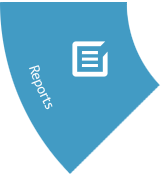
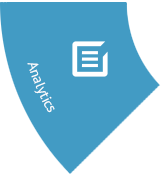
Changed Reports to Analytics. In installation process fixed the code for yahoo mail server settings.

Changed region(s): [[0.1553, 0.3448, 0.3416, 0.6609], [0.528, 0.2874, 0.5901, 0.3161]]

diff --git a/public/media/css/jquery.alert.css b/public/media/css/jquery.alert.css
@@ -83,15 +83,15 @@ box-shadow:         0px 3px 3px rgba(0, 0, 0, 0.75);
 }
 
 #popup_content.alert {
-	background-image: url(images/info.gif);
+	/*background-image: url(images/info.gif);*/
 }
 
 #popup_content.confirm {
-	background-image: url(images/important.gif);
+	/*background-image: url(images/important.gif);*/
 }
 
 #popup_content.prompt {
-	background-image: url(images/help.gif);
+	/*background-image: url(images/help.gif);*/
 }
 
 #popup_message {

diff --git a/application/modules/default/controllers/EmpcommunicationdetailsController.php b/application/modules/default/controllers/EmpcommunicationdetailsController.php
@@ -88,86 +88,59 @@ class Default_EmpcommunicationdetailsController extends Zend_Controller_Action
 							if(!empty($empdata))
 							{
 								$empDept = $empdata[0]['department_id'];
-
-								/*	//TO get the Employee  profile information....
-								 $usersModel = new Default_Model_Users();
-								 $employeeData = $usersModel->getUserDetailsByIDandFlag($id);
-								 //echo "Employee Data : <pre>";print_r($employeeData);die;
-								 */
-
 								$empcommdetailsModal = new Default_Model_Empcommunicationdetails();
 								$usersModel = new Default_Model_Users();
 								$countriesModel = new Default_Model_Countries();
 								$statesmodel = new Default_Model_States();
 								$citiesmodel = new Default_Model_Cities();
 								$deptModel = new Default_Model_Departments();
+								$orgInfoModel = new Default_Model_Organisationinfo();
+								$orgid = 1;
+								$countryId = '';
+								$stateId = '';
+								$cityId = '';
 
-								$empDeptdata = $deptModel->getEmpdepartmentdetails($empDept);
-								if(!empty($empDeptdata) && isset($empDeptdata))
+								if($empDept !='' && $empDept !='NULL')
 								{
-									$countryId = $empDeptdata[0]['country'];
-									$stateId = $empDeptdata[0]['state'];
-									$cityId = $empDeptdata[0]['city'];
-
-									$countryData = $countriesModel->getActiveCountryName($countryId);
+									$empDeptdata = $deptModel->getEmpdepartmentdetails($empDept);
+									if(!empty($empDeptdata))
+									{
+										$countryId = $empDeptdata[0]['country'];
+										$stateId = $empDeptdata[0]['state'];
+										$cityId = $empDeptdata[0]['city'];
+									}
+								}	
+								else
+								{
+									$empDeptdata = $orgInfoModel->getOrganisationDetails($orgid);
+									if(!empty($empDeptdata))
+									{
+										$countryId = $empDeptdata[0]['country'];
+										$stateId = $empDeptdata[0]['state'];
+										$cityId = $empDeptdata[0]['city'];
+									}
+								}
+									if($countryId !='')
+										$countryData = $countriesModel->getActiveCountryName($countryId);
 									if(!empty($countryData))
 									$empDeptdata[0]['country'] = $countryData[0]['country'];
 									else
 									$empDeptdata[0]['country'] ='';
 
-									$stateData = $statesmodel->getStateNameData($stateId);
+									if($stateId !='')
+										$stateData = $statesmodel->getStateNameData($stateId);
 									if(!empty($stateData))
 									$empDeptdata[0]['state'] = $stateData[0]['state'];
 									else
 									$empDeptdata[0]['state'] ='';
 
-									$citiesData = $citiesmodel->getCitiesNameData($cityId);
+									if($cityId !='')
+										$citiesData = $citiesmodel->getCitiesNameData($cityId);
 									if(!empty($citiesData))
 									$empDeptdata[0]['city'] = $citiesData[0]['city'];
 									else
 									$empDeptdata[0]['city'] ='';
 
-								}
-								else
-								{
-									$countryId ='';$stateId = '';$cityId ='';
-								}
-
-								/*if($countryId !='')
-								 {
-								 $countryData = $countriesModel->getActiveCountryName($countryId);
-								 $empDeptdata[0]['country'] = $countryData[0]['country'];
-								 }
-
-								 if($stateId !='')
-								 {
-								 $stateData = $statesmodel->getStateNameData($stateId);
-								 //echo "<pre>";print_r($stateData);exit;
-								 $empDeptdata[0]['state'] = $stateData[0]['state'];
-								 }
-
-								 if($cityId !='')
-								 {
-								 $citiesData = $citiesmodel->getCitiesNameData($cityId);
-								 $empDeptdata[0]['city'] = $citiesData[0]['city'];
-								 } */
-
-								/*$countrieslistArr = $countriesModel->getActiveCountriesList();
-								 if(sizeof($countrieslistArr)>0)
-								 {
-								 $empcommdetailsform->perm_country->addMultiOption('','Select Country');
-								 $empcommdetailsform->current_country->addMultiOption('','Select Country');
-								 foreach ($countrieslistArr as $countrieslistres)
-								 {
-								 $empcommdetailsform->perm_country->addMultiOption($countrieslistres['country_id_org'],$countrieslistres['country']);
-								 $empcommdetailsform->current_country->addMultiOption($countrieslistres['country_id_org'],$countrieslistres['country']);
-								 }
-								 }
-								 else
-								 {
-								 $msgarray['perm_country'] = 'Countries are not configured yet.';
-								 $msgarray['current_country'] = 'Countries are not configured yet.';
-								 }*/
 								$data = $empcommdetailsModal->getsingleEmpCommDetailsData($id);
 
 								if(!empty($data))
@@ -529,39 +502,55 @@ class Default_EmpcommunicationdetailsController extends Zend_Controller_Action
                                 $citiesmodel = new Default_Model_Cities();
                                 $orgInfoModel = new Default_Model_Organisationinfo();
                                 $msgarray = array();
+								$orgid = 1;
+								$countryId = '';
+								$stateId = '';
+								$cityId = '';
 								
                                 $deptModel = new Default_Model_Departments();
-                                $empDeptdata = $deptModel->getEmpdepartmentdetails($empDept);
-				
-                                if(!empty($empDeptdata) && isset($empDeptdata))
-                                {
-                                    $countryId = $empDeptdata[0]['country'];
-                                    $stateId = $empDeptdata[0]['state'];
-                                    $cityId = $empDeptdata[0]['city'];
-
-                                    $countryData = $countriesModel->getActiveCountryName($countryId);
+								if($empDept !='' && $empDept !='NULL')
+								{
+									$empDeptdata = $deptModel->getEmpdepartmentdetails($empDept);
+									if(!empty($empDeptdata))
+									{
+										$countryId = $empDeptdata[0]['country'];
+										$stateId = $empDeptdata[0]['state'];
+										$cityId = $empDeptdata[0]['city'];
+									}
+								}	
+								else
+								{
+									$empDeptdata = $orgInfoModel->getOrganisationDetails($orgid);
+									if(!empty($empDeptdata))
+									{
+										$countryId = $empDeptdata[0]['country'];
+										$stateId = $empDeptdata[0]['state'];
+										$cityId = $empDeptdata[0]['city'];
+									}
+								}	
+								//echo "<pre>";print_r($empDeptdata);exit;
+									if($countryId !='')
+										$countryData = $countriesModel->getActiveCountryName($countryId);
                                     if(!empty($countryData))
                                         $empDeptdata[0]['country'] = $countryData[0]['country'];
                                     else
                                         $empDeptdata[0]['country'] ='';
-
-                                    $stateData = $statesmodel->getStateNameData($stateId);
+									
+									if($stateId !='')
+										$stateData = $statesmodel->getStateNameData($stateId);
                                     if(!empty($stateData))
                                         $empDeptdata[0]['state'] = $stateData[0]['state'];
                                     else
                                         $empDeptdata[0]['state'] ='';
-
-                                    $citiesData = $citiesmodel->getCitiesNameData($cityId);
+									
+									if($cityId !='')
+										$citiesData = $citiesmodel->getCitiesNameData($cityId);
                                     if(!empty($citiesData))
                                         $empDeptdata[0]['city'] = $citiesData[0]['city'];
                                     else
                                         $empDeptdata[0]['city'] ='';
 
-                                }
-                                else
-                                {
-                                    $countryId ='';$stateId = '';$cityId ='';
-                                }
+                               
 								
                                 $countrieslistArr = $countriesModel->getTotalCountriesList();
 

diff --git a/application/modules/default/forms/employee.php b/application/modules/default/forms/employee.php
@@ -75,7 +75,6 @@ class Default_Form_employee extends Zend_Form
 		$department = new Zend_Form_Element_Select('department_id');
 		$department->addMultiOption('','Select Department');
 		$department->setRegisterInArrayValidator(false);	
-                
                 $roleArr=array();
                 if($controller_name != 'organisationinfo')
                 {
@@ -91,10 +90,16 @@ class Default_Form_employee extends Zend_Form
                                 $department->addValidator('NotEmpty', false, array('messages' => 'Please select department.'));     
                             }
                         }
+                    }else 
+                    {
+                    		$department->setRequired(true);
+                            $department->addValidator('NotEmpty', false, array('messages' => 'Please select department.'));
+                    	
                     }                   
                 }
 		//$department->setAttrib('onchange', 'displayEmpReportingmanagers(this,"reporting_manager","","id")');//original
                 $department->setAttrib("onchange", "displayReportingmanagers_emp('department_id','reporting_manager','emprole','id')");
+                
 		
 		
 		$jobtitle = new Zend_Form_Element_Select('jobtitle_id');
@@ -158,7 +163,7 @@ class Default_Form_employee extends Zend_Form
         	)); 	
 		
 		$yearsofexp = new Zend_Form_Element_Text('years_exp');
-		$yearsofexp->setAttrib('maxLength', 5);
+		$yearsofexp->setAttrib('maxLength', 2);
 		$yearsofexp->addFilter(new Zend_Filter_StringTrim());
 		$yearsofexp->addValidator("regex",true,array(
                           // 'pattern'=>'/^[0-9]+$/', 
@@ -200,12 +205,12 @@ class Default_Form_employee extends Zend_Form
                 $userfullname = new Zend_Form_Element_Text("userfullname");
                 $userfullname->setLabel("Full Name");	
                 $userfullname->setAttrib("class", "formDataElement");
-                $userfullname->setAttrib('length', 70);
+                $userfullname->setAttrib('maxlength', 50);
 
                 $other_modeofentry = new Zend_Form_Element_Text("other_modeofentry");
                 $other_modeofentry->setLabel("Mode of Employment(Other)");	
                 $other_modeofentry->setAttrib("class", "formDataElement");
-                $other_modeofentry->setAttrib('length', 70);
+                $other_modeofentry->setAttrib('maxlength', 50);
                 
                 $modeofentry = new Zend_Form_Element_Select("modeofentry");                
                 $modeofentry->setLabel("Mode of Employment")

diff --git a/application/modules/default/controllers/MydetailsController.php b/application/modules/default/controllers/MydetailsController.php
@@ -672,11 +672,13 @@ class Default_MydetailsController extends Zend_Controller_Action
 								$msgarray = array();
 								
 								$deptModel = new Default_Model_Departments();
-								if($empDept !='')
-								$departmentAddress = $usersModel->getDepartmentAddress($empDept);
+								if($empDept !='' && $empDept !='NULL')
+									$departmentAddress = $usersModel->getDepartmentAddress($empDept);
+								else
+									$departmentAddress = $usersModel->getOrganizationAddress();	
 							
 								$data = $empcommdetailsModal->getsingleEmpCommDetailsData($id);
-								//echo "<pre>";print_r($data);exit;
+								//echo "<pre>";print_r($departmentAddress);exit;
 								if(!empty($data))
 								{
 									$countrieslistArr = $countriesModel->getCountryCode($data[0]['perm_country']);
@@ -825,6 +827,8 @@ class Default_MydetailsController extends Zend_Controller_Action
 					$deptId = $empdata[0]['department_id'];
 					if($deptId !='')
 						$departmentAddress = $usersModel->getDepartmentAddress($deptId);
+					else
+						$departmentAddress = $usersModel->getOrganizationAddress();		
 					if(!empty($countrieslistArr))
 					{
 						$empcommdetailsform->perm_country->addMultiOption('','Select Country');

diff --git a/application/modules/default/models/Users.php b/application/modules/default/models/Users.php
@@ -493,6 +493,20 @@ class Default_Model_Users extends Zend_Db_Table_Abstract
 		}
 		else return $res;
 	}
+	
+	public function getOrganizationAddress()
+	{
+		$res = array();
+			$db = Zend_Db_Table::getDefaultAdapter();
+			$deptAddRes = $db->query("select d.address1,c.country,s.state,ct.city
+									from main_organisationinfo d 
+									inner join main_countries c ON c.country_id_org = d.country
+									inner join main_states s ON s.state_id_org = d.state
+									inner join main_cities ct ON ct.city_org_id = d.city
+									where d.isactive = 1;");
+			return $res = $deptAddRes->fetch();
+			
+	}
 
 	public function addUserLoginLogManager($dataTmp)
 	{

diff --git a/application/modules/default/controllers/MyemployeesController.php b/application/modules/default/controllers/MyemployeesController.php
@@ -511,8 +511,10 @@ class Default_MyemployeesController extends Zend_Controller_Action
 								$msgarray = array();
 								
 								$deptModel = new Default_Model_Departments();
-								if($empDept !='')
-								$departmentAddress = $usersModel->getDepartmentAddress($empDept);
+								if($empDept !='' && $empDept !='NULL')
+									$departmentAddress = $usersModel->getDepartmentAddress($empDept);
+								else
+									$departmentAddress = $usersModel->getOrganizationAddress($empDept);	
 							
 								$data = $empcommdetailsModal->getsingleEmpCommDetailsData($id);
 								if(!empty($data))

diff --git a/success.php b/success.php
@@ -138,7 +138,11 @@ function sendconfirmationmail($content,$encodedPswd)
     $mail->Password = MAIL_PASSWORD;
     $mail->Port = MAIL_PORT; // or 587
 
-    $mail->setFrom(DONOTREPLYEMAIL,'Do not Reply');
+    $pos = strpos($username, 'yahoo');
+	if($pos !== false)
+		$mail->setFrom($username,'Do not Reply');
+	else
+		$mail->setFrom(SUPERADMIN_EMAIL,'Do not Reply');
     $mail->Subject = APPLICATION_NAME." - successfully installed";
     $mail->msgHTML($htmlcontentdata);
     $mail->addAddress(SUPERADMIN_EMAIL,'Super Admin');

diff --git a/install/step4.php b/install/step4.php
@@ -173,7 +173,11 @@ function mail_send($tls,$auth,$smtpserver,$username,$password,$port)
     $mail->Password = $password;
     $mail->Port = $port; // or 587
 
-    $mail->setFrom(DONOTREPLYEMAIL,'Do not Reply');
+    $pos = strpos($username, 'yahoo');
+	if($pos !== false)
+		$mail->setFrom($username,'Do not Reply');
+	else
+		$mail->setFrom(SUPERADMIN_EMAIL,'Do not Reply');
     $mail->Subject = "Test Mail Checking";
     $mail->msgHTML($htmlcontentdata);
     $mail->addAddress(SUPERADMIN_EMAIL,'Super Admin');

diff --git a/application/modules/default/models/Organisationinfo.php b/application/modules/default/models/Organisationinfo.php
@@ -33,6 +33,14 @@ class Default_Model_Organisationinfo extends Zend_Db_Table_Abstract
 		return $row->toArray();
 	}
 	
+	public function getOrganisationDetails($id)
+	{
+		$db = Zend_Db_Table::getDefaultAdapter();
+		$query = "select * from main_organisationinfo where  id = '".$id."' and isactive=1 ";
+		$result = $db->query($query)->fetchAll();
+	    return $result;
+	}
+	
 	public function SaveorUpdateData($data, $where)
 	{
 		if($where != ''){

diff --git a/public/constants.php b/public/constants.php
@@ -327,10 +327,6 @@ defined('DONOTREPLYEMAIL')
 defined('DONOTREPLYNAME')
 || define('DONOTREPLYNAME', 'Do-not-reply');
 
-
-defined('L2MANAGEREMAIL')
-|| define('L2MANAGEREMAIL', 'l2manager@example.com');
-
 //echo DOMAIN; exit;
 //echo $_SERVER[''
 
